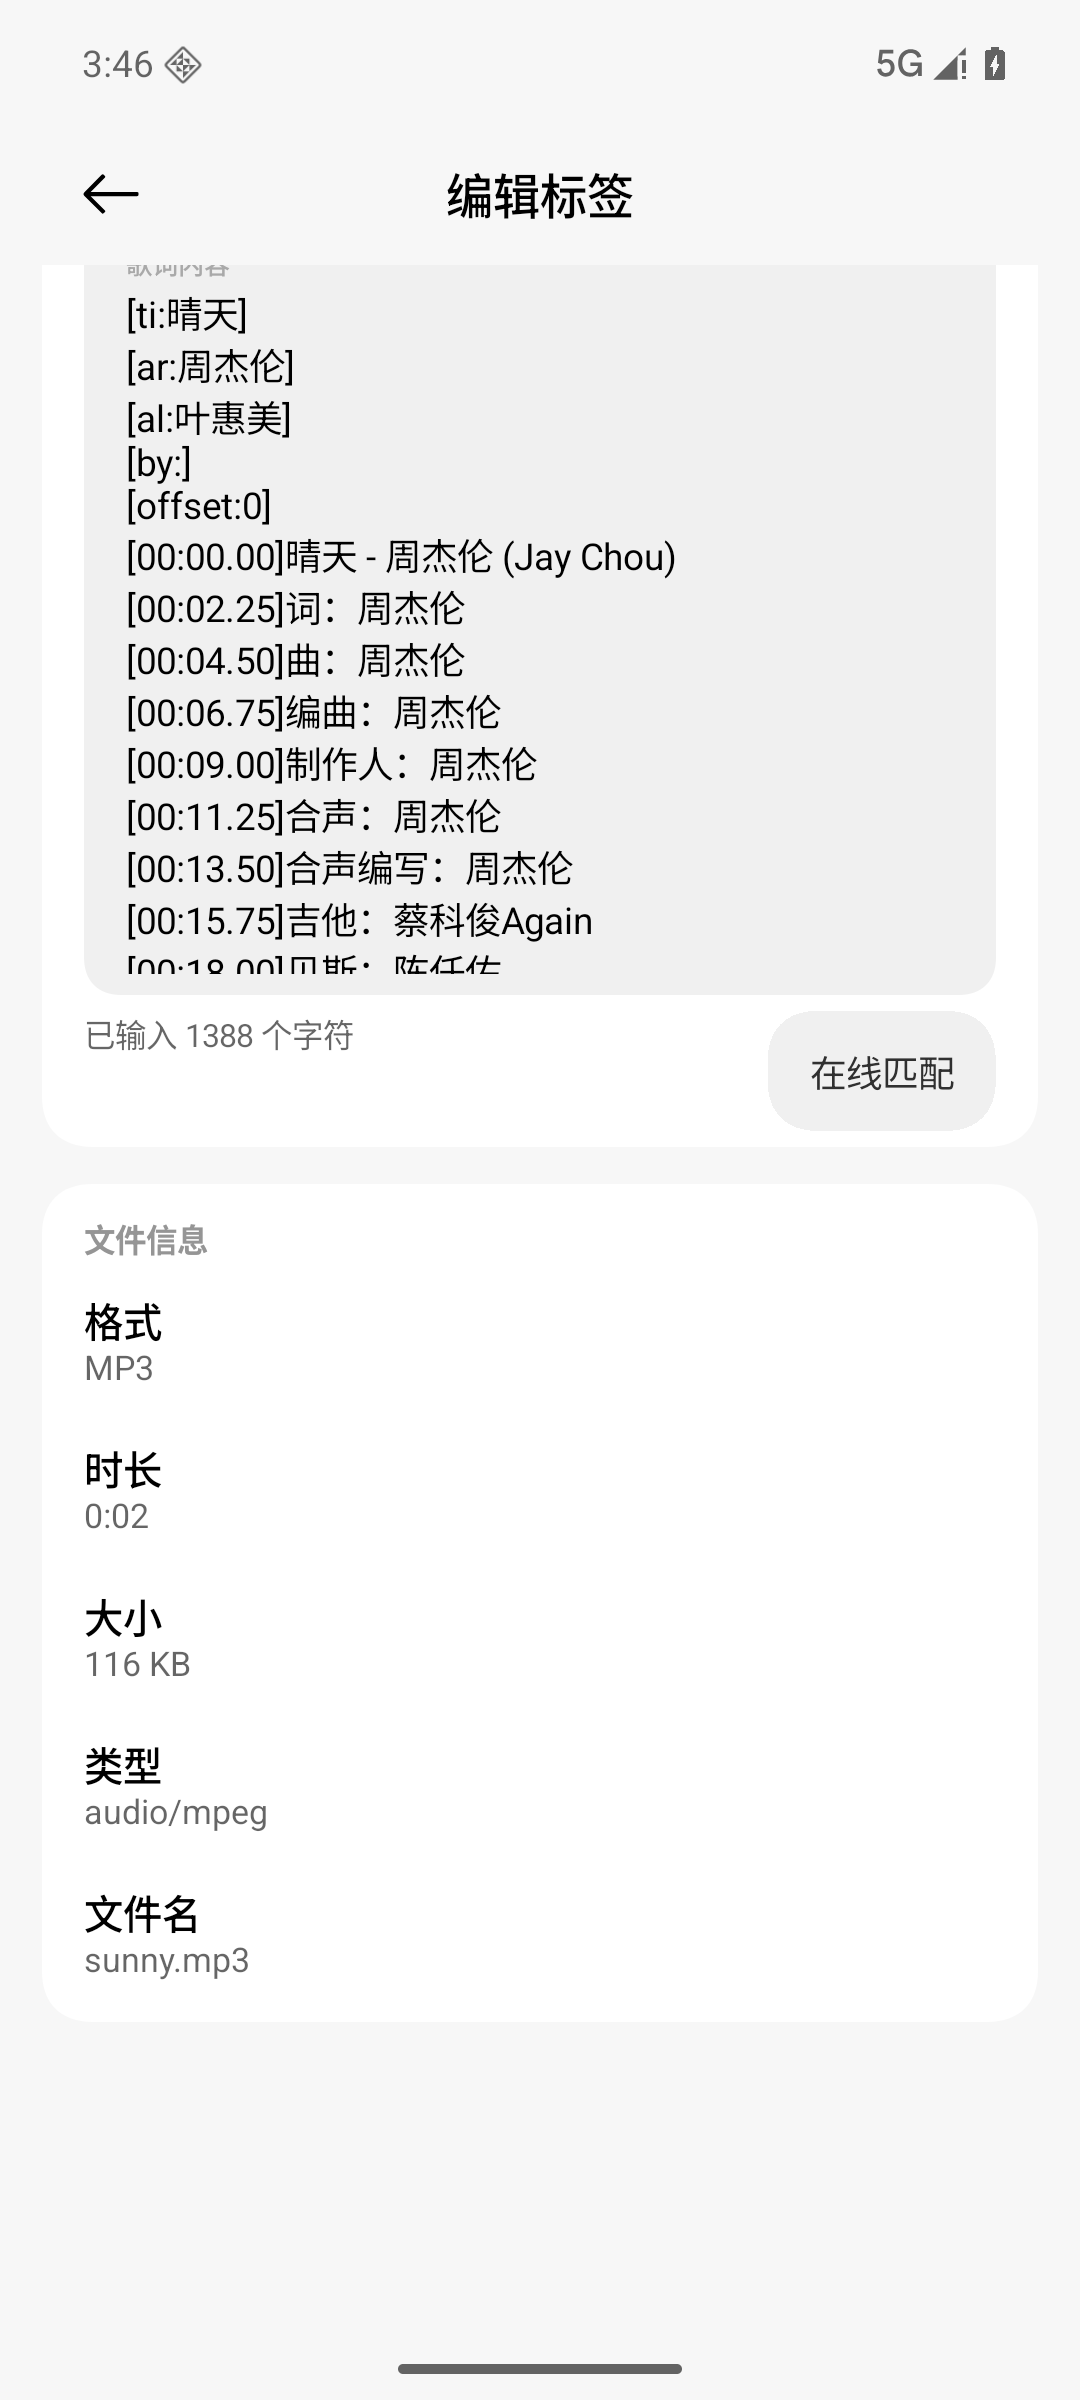
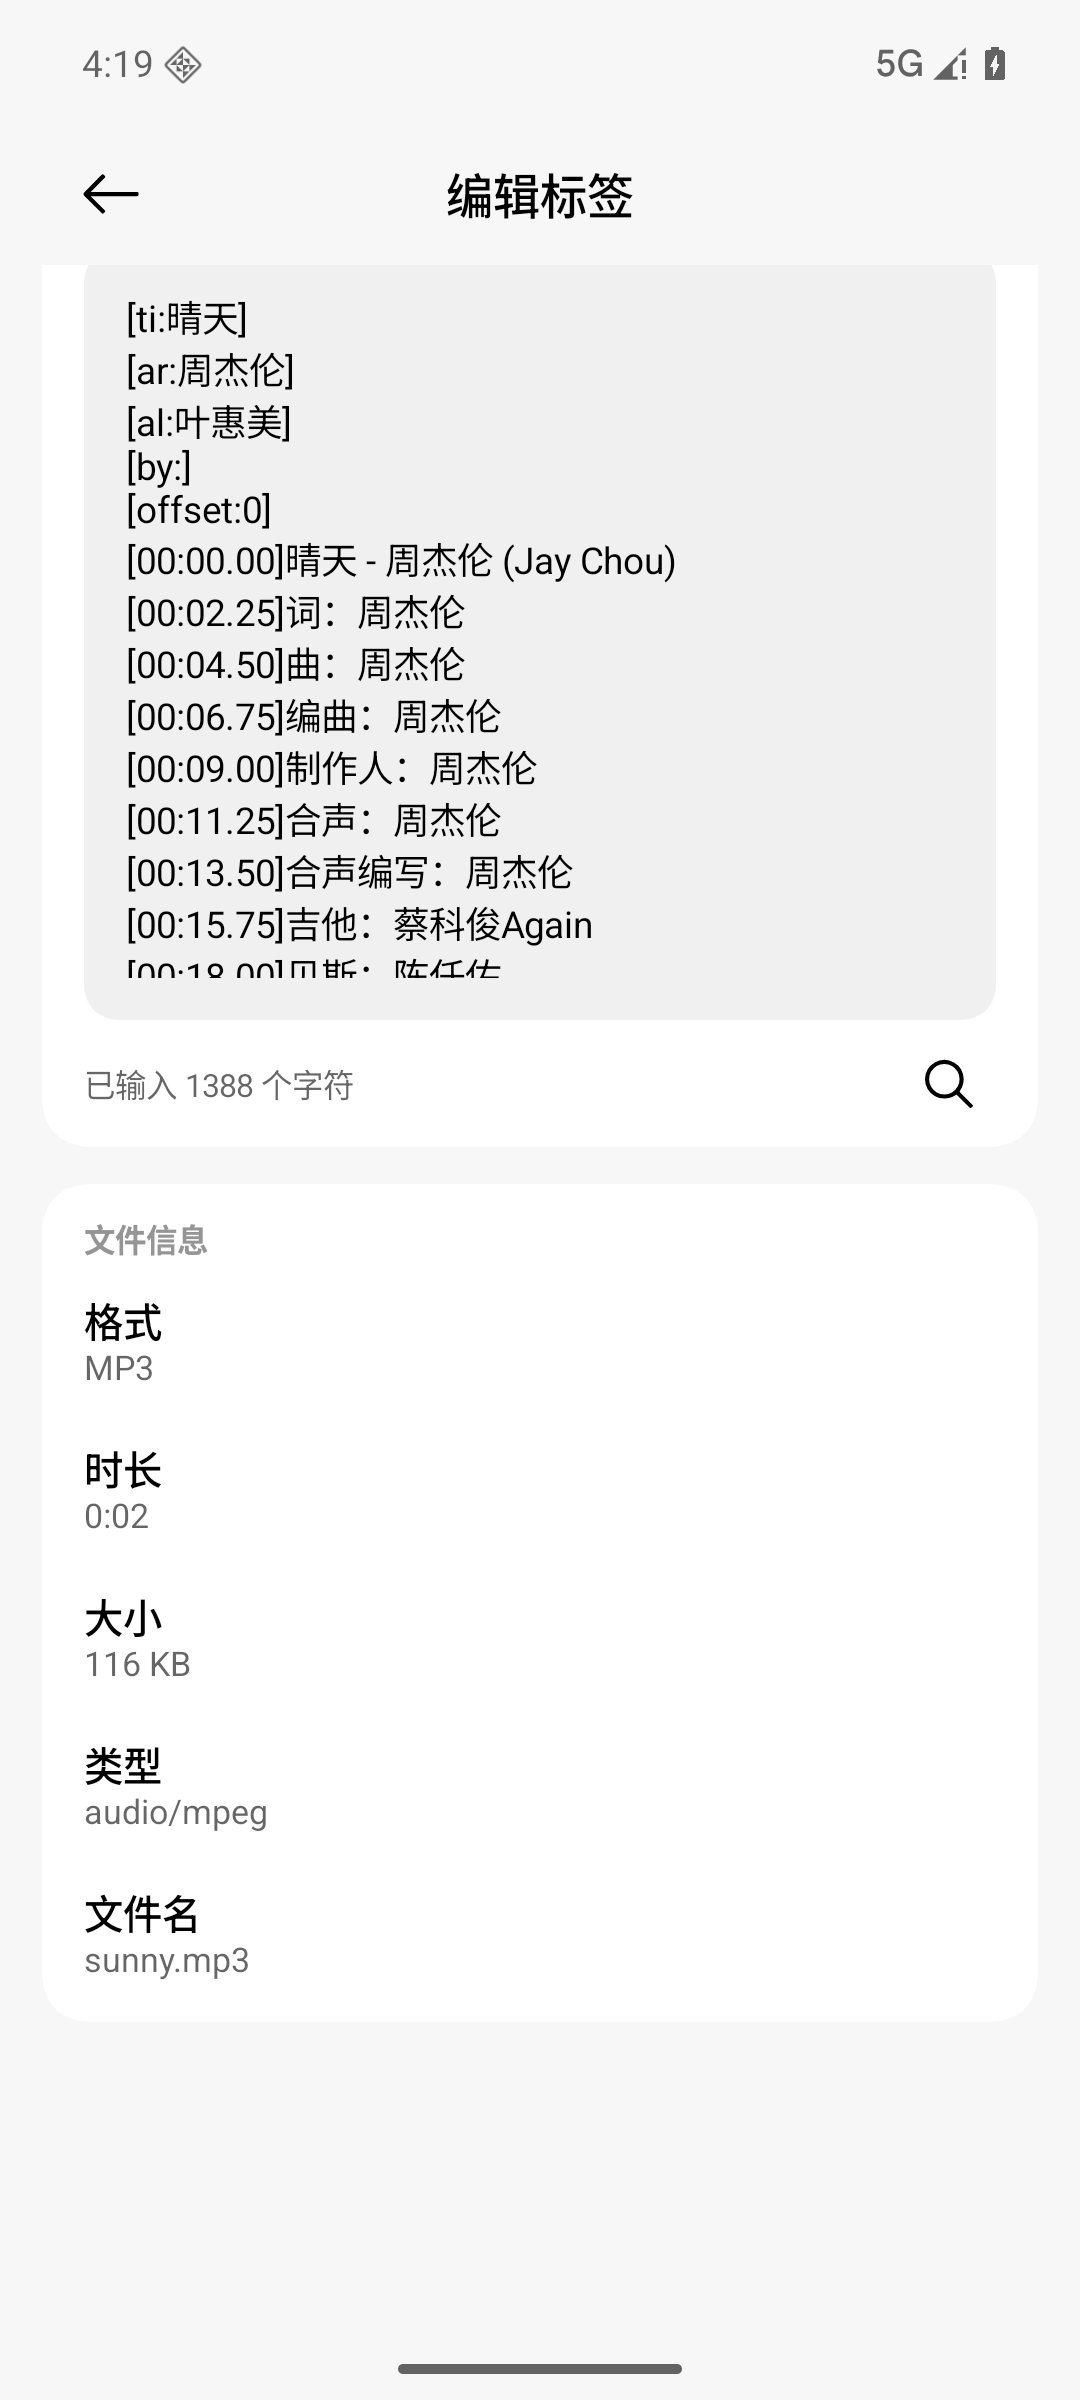
曲库播放入口、菜单展开动画与歌词卡片调整
- 曲库每张卡片在更多按钮左侧增加播放图标，点击调起系统选择打开方式（ACTION_VIEW chooser）
- 更多菜单加入 140ms 展开/收起动画（alpha + scale，右上角变换原点）
- 歌词卡移除歌词内容标签，在线匹配改为搜索图标，并与字符数同行对齐
- 更新曲库/歌词截图、新增打开方式截图，验证报告同步

Changed region(s): [[0.0917, 0.125, 0.6111, 0.4688], [0.7639, 0.4375, 0.8861, 0.4688], [0.0917, 0.0, 0.1528, 0.0312]]

diff --git a/app/src/main/java/com/musictag/app/ui/components/Components.kt b/app/src/main/java/com/musictag/app/ui/components/Components.kt
@@ -2,6 +2,8 @@ package com.musictag.app.ui.components
 
 import android.graphics.Bitmap
 import androidx.annotation.DrawableRes
+import androidx.compose.animation.core.Animatable
+import androidx.compose.animation.core.tween
 import androidx.compose.foundation.Image
 import androidx.compose.foundation.background
 import androidx.compose.foundation.clickable
@@ -21,15 +23,20 @@ import androidx.compose.foundation.layout.width
 import androidx.compose.foundation.shape.RoundedCornerShape
 import androidx.compose.foundation.text.BasicTextField
 import androidx.compose.runtime.Composable
+import androidx.compose.runtime.LaunchedEffect
 import androidx.compose.runtime.getValue
+import androidx.compose.runtime.mutableStateOf
 import androidx.compose.runtime.produceState
 import androidx.compose.runtime.remember
+import androidx.compose.runtime.setValue
 import androidx.compose.ui.Alignment
 import androidx.compose.ui.Modifier
 import androidx.compose.ui.draw.clip
 import androidx.compose.ui.graphics.Color
 import androidx.compose.ui.graphics.SolidColor
+import androidx.compose.ui.graphics.TransformOrigin
 import androidx.compose.ui.graphics.asImageBitmap
+import androidx.compose.ui.graphics.graphicsLayer
 import androidx.compose.ui.layout.ContentScale
 import androidx.compose.ui.platform.LocalDensity
 import androidx.compose.ui.res.painterResource
@@ -382,12 +389,13 @@ fun MusicTagTextField(
     maxLines: Int = if (singleLine) 1 else 6,
     enabled: Boolean = true,
     labelAsPlaceholder: Boolean = false,
+    hideLabel: Boolean = false,
 ) {
     TextField(
         value = value,
         onValueChange = onValueChange,
         modifier = modifier.fillMaxWidth(),
-        label = label,
+        label = if (hideLabel) "" else label,
         useLabelAsPlaceholder = labelAsPlaceholder,
         singleLine = singleLine,
         minLines = minLines,
@@ -467,7 +475,18 @@ fun MiuixOverflowMenu(
     onDismissRequest: () -> Unit,
     items: List<Pair<String, () -> Unit>>,
 ) {
-    if (!expanded) return
+    var visible by remember { mutableStateOf(expanded) }
+    val progress = remember { Animatable(0f) }
+    LaunchedEffect(expanded) {
+        if (expanded) {
+            visible = true
+            progress.animateTo(1f, tween(durationMillis = 140))
+        } else {
+            progress.animateTo(0f, tween(durationMillis = 120))
+            visible = false
+        }
+    }
+    if (!visible) return
     val marginPx = with(LocalDensity.current) { 12.dp.roundToPx() }
     val positionProvider = remember(marginPx) {
         object : androidx.compose.ui.window.PopupPositionProvider {
@@ -491,7 +510,15 @@ fun MiuixOverflowMenu(
         properties = androidx.compose.ui.window.PopupProperties(focusable = true),
     ) {
         Surface(
-            modifier = Modifier.width(200.dp),
+            modifier = Modifier
+                .width(200.dp)
+                .graphicsLayer {
+                    val p = progress.value
+                    alpha = p
+                    scaleX = 0.88f + 0.12f * p
+                    scaleY = 0.88f + 0.12f * p
+                    transformOrigin = TransformOrigin(1f, 0f)
+                },
             shape = RoundedCornerShape(16.dp),
             color = MiuixTheme.colorScheme.surface,
             shadowElevation = 8.dp,

diff --git a/app/src/main/java/com/musictag/app/ui/MusicTagApp.kt b/app/src/main/java/com/musictag/app/ui/MusicTagApp.kt
@@ -1,5 +1,7 @@
 package com.musictag.app.ui
 
+import android.content.ActivityNotFoundException
+import android.content.Intent
 import android.net.Uri
 import androidx.activity.compose.rememberLauncherForActivityResult
 import androidx.activity.result.contract.ActivityResultContracts
@@ -25,16 +27,19 @@ import androidx.compose.runtime.getValue
 import androidx.compose.runtime.mutableIntStateOf
 import androidx.compose.runtime.mutableStateOf
 import androidx.compose.runtime.remember
+import androidx.compose.runtime.rememberCoroutineScope
 import androidx.compose.runtime.saveable.rememberSaveable
 import androidx.compose.runtime.setValue
 import androidx.compose.ui.Modifier
 import androidx.compose.ui.graphics.Color
+import androidx.compose.ui.platform.LocalContext
 import androidx.compose.ui.unit.dp
 import androidx.lifecycle.compose.collectAsStateWithLifecycle
 import androidx.lifecycle.viewmodel.compose.viewModel
 import androidx.lifecycle.viewmodel.initializer
 import androidx.lifecycle.viewmodel.viewModelFactory
 import com.musictag.app.AppContainer
+import com.musictag.app.data.model.TrackItem
 import com.musictag.app.ui.components.MiuixOverflowMenu
 import com.musictag.app.ui.editor.EditorScreen
 import com.musictag.app.ui.editor.EditorViewModel
@@ -58,6 +63,7 @@ import top.yukonga.miuix.kmp.icon.extended.More
 import top.yukonga.miuix.kmp.icon.extended.Music
 import top.yukonga.miuix.kmp.icon.extended.Refresh
 import top.yukonga.miuix.kmp.icon.extended.Settings
+import kotlinx.coroutines.launch
 
 /**
  * App shell in HyperOS style: large-title top bar for the library, bottom
@@ -88,6 +94,19 @@ fun MusicTagApp(
     var editorUri by rememberSaveable { mutableStateOf<String?>(null) }
     var topMenuExpanded by remember { mutableStateOf(false) }
     val snackbarHostState = remember { SnackbarHostState() }
+    val context = LocalContext.current
+    val scope = rememberCoroutineScope()
+    val openWithTrack: (TrackItem) -> Unit = { item ->
+        val viewIntent = Intent(Intent.ACTION_VIEW).apply {
+            setDataAndType(Uri.parse(item.uri), item.mimeType ?: "audio/*")
+            addFlags(Intent.FLAG_GRANT_READ_URI_PERMISSION)
+        }
+        try {
+            context.startActivity(Intent.createChooser(viewIntent, "选择打开方式"))
+        } catch (_: ActivityNotFoundException) {
+            scope.launch { snackbarHostState.showSnackbar("没有找到可以播放该音频的应用") }
+        }
+    }
 
     val filePicker = rememberLauncherForActivityResult(ActivityResultContracts.OpenMultipleDocuments()) { uris ->
         if (uris.isNotEmpty()) libraryViewModel.addTracks(uris, openSingle = true)
@@ -221,6 +240,7 @@ fun MusicTagApp(
                             tab = 0
                             editorUri = uri
                         },
+                        onOpenWith = openWithTrack,
                         onRemove = libraryViewModel::remove,
                         thumbnail = { uri -> libraryViewModel.thumbnail(Uri.parse(uri)) },
                     )

diff --git a/app/src/main/java/com/musictag/app/ui/editor/EditorScreen.kt b/app/src/main/java/com/musictag/app/ui/editor/EditorScreen.kt
@@ -63,6 +63,7 @@ import top.yukonga.miuix.kmp.theme.MiuixTheme
 import top.yukonga.miuix.kmp.icon.MiuixIcons
 import top.yukonga.miuix.kmp.icon.extended.Back
 import top.yukonga.miuix.kmp.icon.extended.Download
+import top.yukonga.miuix.kmp.icon.extended.Search
 
 /**
  * Full screen tag editor, MIUI/HyperOS style. The save action is a capsule
@@ -303,22 +304,31 @@ fun EditorScreen(
                                     onValueChange = { viewModel.updateField(EditorField.LYRICS, it) },
                                     label = "歌词内容",
                                     singleLine = false,
-                                    minLines = 7,
+                                    minLines = 8,
                                     maxLines = 16,
+                                    hideLabel = true,
                                 )
                                 Spacer(Modifier.height(6.dp))
-                                Row(modifier = Modifier.fillMaxWidth()) {
+                                Row(
+                                    modifier = Modifier.fillMaxWidth(),
+                                    verticalAlignment = Alignment.CenterVertically,
+                                ) {
                                     Text(
                                         text = "已输入 ${state.fields.lyrics.length} 个字符",
                                         style = MiuixTheme.textStyles.footnote1,
                                         color = MiuixTheme.colorScheme.onSurfaceVariantSummary,
                                         modifier = Modifier.weight(1f),
                                     )
-                                    TextButton(
-                                        text = "在线匹配",
+                                    IconButton(
                                         onClick = viewModel::openSearch,
-                                        minHeight = 32.dp,
-                                    )
+                                        modifier = Modifier.size(36.dp),
+                                    ) {
+                                        Icon(
+                                            MiuixIcons.Search,
+                                            contentDescription = "在线匹配歌词",
+                                            modifier = Modifier.size(22.dp),
+                                        )
+                                    }
                                 }
                             }
                         }

diff --git a/app/src/main/java/com/musictag/app/ui/library/LibraryScreen.kt b/app/src/main/java/com/musictag/app/ui/library/LibraryScreen.kt
@@ -44,6 +44,7 @@ import top.yukonga.miuix.kmp.basic.Text
 import top.yukonga.miuix.kmp.theme.MiuixTheme
 import top.yukonga.miuix.kmp.icon.MiuixIcons
 import top.yukonga.miuix.kmp.icon.extended.More
+import top.yukonga.miuix.kmp.icon.extended.Play
 
 @Composable
 fun LibraryScreen(
@@ -53,6 +54,7 @@ fun LibraryScreen(
     onAddAllFiles: () -> Unit,
     onRefresh: () -> Unit,
     onOpen: (String) -> Unit,
+    onOpenWith: (TrackItem) -> Unit,
     onRemove: (String) -> Unit,
     thumbnail: suspend (String) -> Bitmap?,
     modifier: Modifier = Modifier,
@@ -119,6 +121,7 @@ fun LibraryScreen(
                             item = item,
                             thumbnail = thumbnail,
                             onClick = { onOpen(item.uri) },
+                            onOpenWith = { onOpenWith(item) },
                             onRemove = { onRemove(item.uri) },
                         )
                     }
@@ -133,6 +136,7 @@ private fun TrackRow(
     item: TrackItem,
     thumbnail: suspend (String) -> Bitmap?,
     onClick: () -> Unit,
+    onOpenWith: () -> Unit,
     onRemove: () -> Unit,
 ) {
     var menuExpanded by remember { mutableStateOf(false) }
@@ -184,8 +188,20 @@ private fun TrackRow(
                 }
             }
             Box {
-                IconButton(onClick = { menuExpanded = true }) {
-                    Icon(MiuixIcons.More, contentDescription = "更多操作")
+                IconButton(
+                    onClick = onOpenWith,
+                    modifier = Modifier.size(40.dp),
+                ) {
+                    Icon(
+                        MiuixIcons.Play,
+                        contentDescription = "选择打开方式",
+                        modifier = Modifier.size(22.dp),
+                    )
+                }
+            }
+            Box {
+                IconButton(onClick = { menuExpanded = true }, modifier = Modifier.size(40.dp)) {
+                    Icon(MiuixIcons.More, contentDescription = "更多操作", modifier = Modifier.size(22.dp))
                 }
                 MiuixOverflowMenu(
                     expanded = menuExpanded,

diff --git a/docs/TEST-REPORT.md b/docs/TEST-REPORT.md
@@ -101,6 +101,17 @@ MIUI UI 专项验证（均为真机/模拟器截图确认）：
   仍可能按系统主题着色，属系统行为）。
 - 验证：模拟器逐项截图 `docs/screenshots/01`–`10`；`:app:assembleDebug` 通过。
 
+### 第四轮交互补充（2026-11-08）
+
+- 曲库卡片在「更多」左侧新增播放图标（`MiuixIcons.Play`，40 dp 触控区），点击通过
+  `ACTION_VIEW + FLAG_GRANT_READ_URI_PERMISSION` 调起系统「选择打开方式」选择器；
+  模拟器中已确认弹出 YouTube Music / 音签等候选，见 `docs/screenshots/11-open-with.png`。
+- 「更多」菜单加入展开/收起动画：`Animatable` 驱动 140 ms 内 alpha 0→1、scale 0.88→1，
+  变换原点在右上角；关闭时 120 ms 缩小淡出后再移除 Popup。
+- 歌词卡片：去掉「歌词内容」浮动标签（`MusicTagTextField(hideLabel = true)`）；
+  「在线匹配」由文字按钮改为搜索图标按钮，并与左侧「已输入 N 个字符」在同一行垂直居中对齐。
+- 验证：曲库/编辑页重新截图；`:app:assembleDebug` 通过。
+
 ## 3. 构建产物
 
 - `app/build/outputs/apk/debug/app-debug.apk`（约 19.4 MB，debug 签名，minSdk 26 / targetSdk 36）
